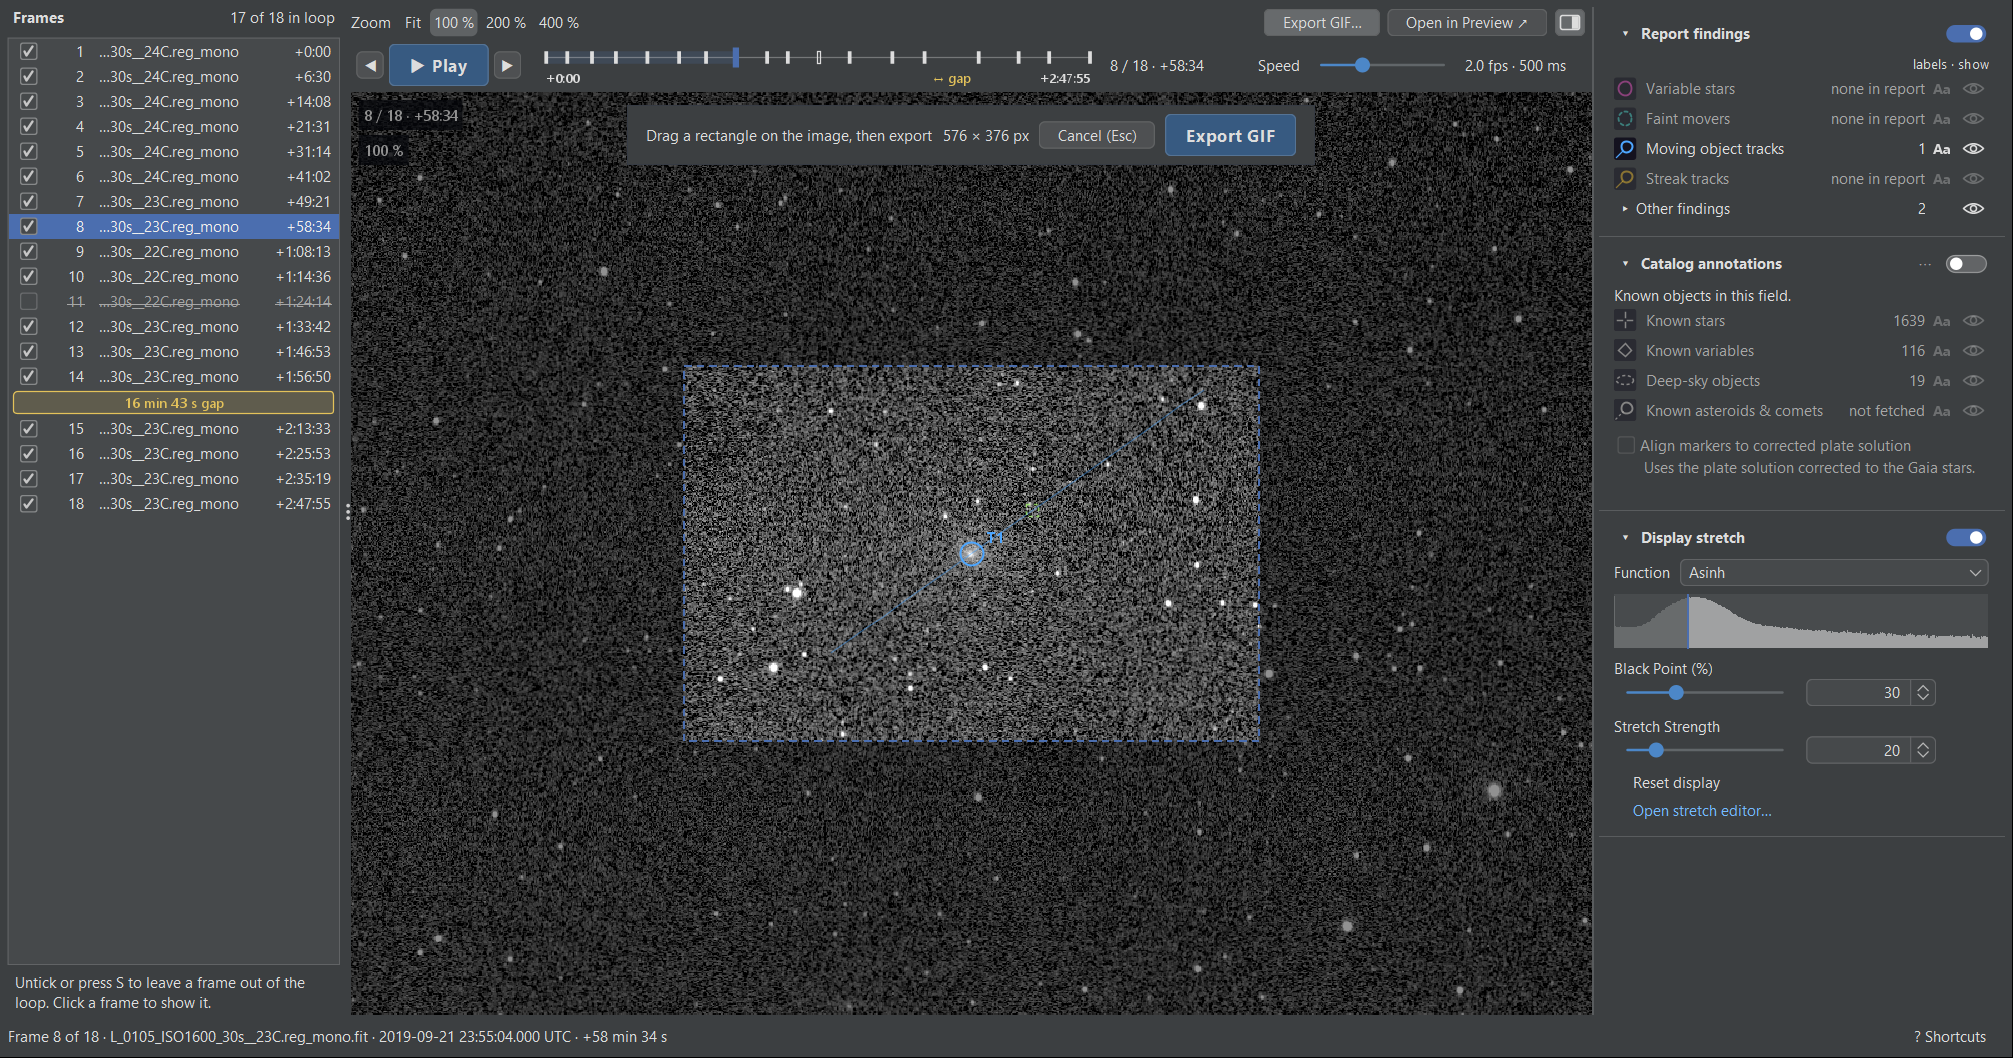
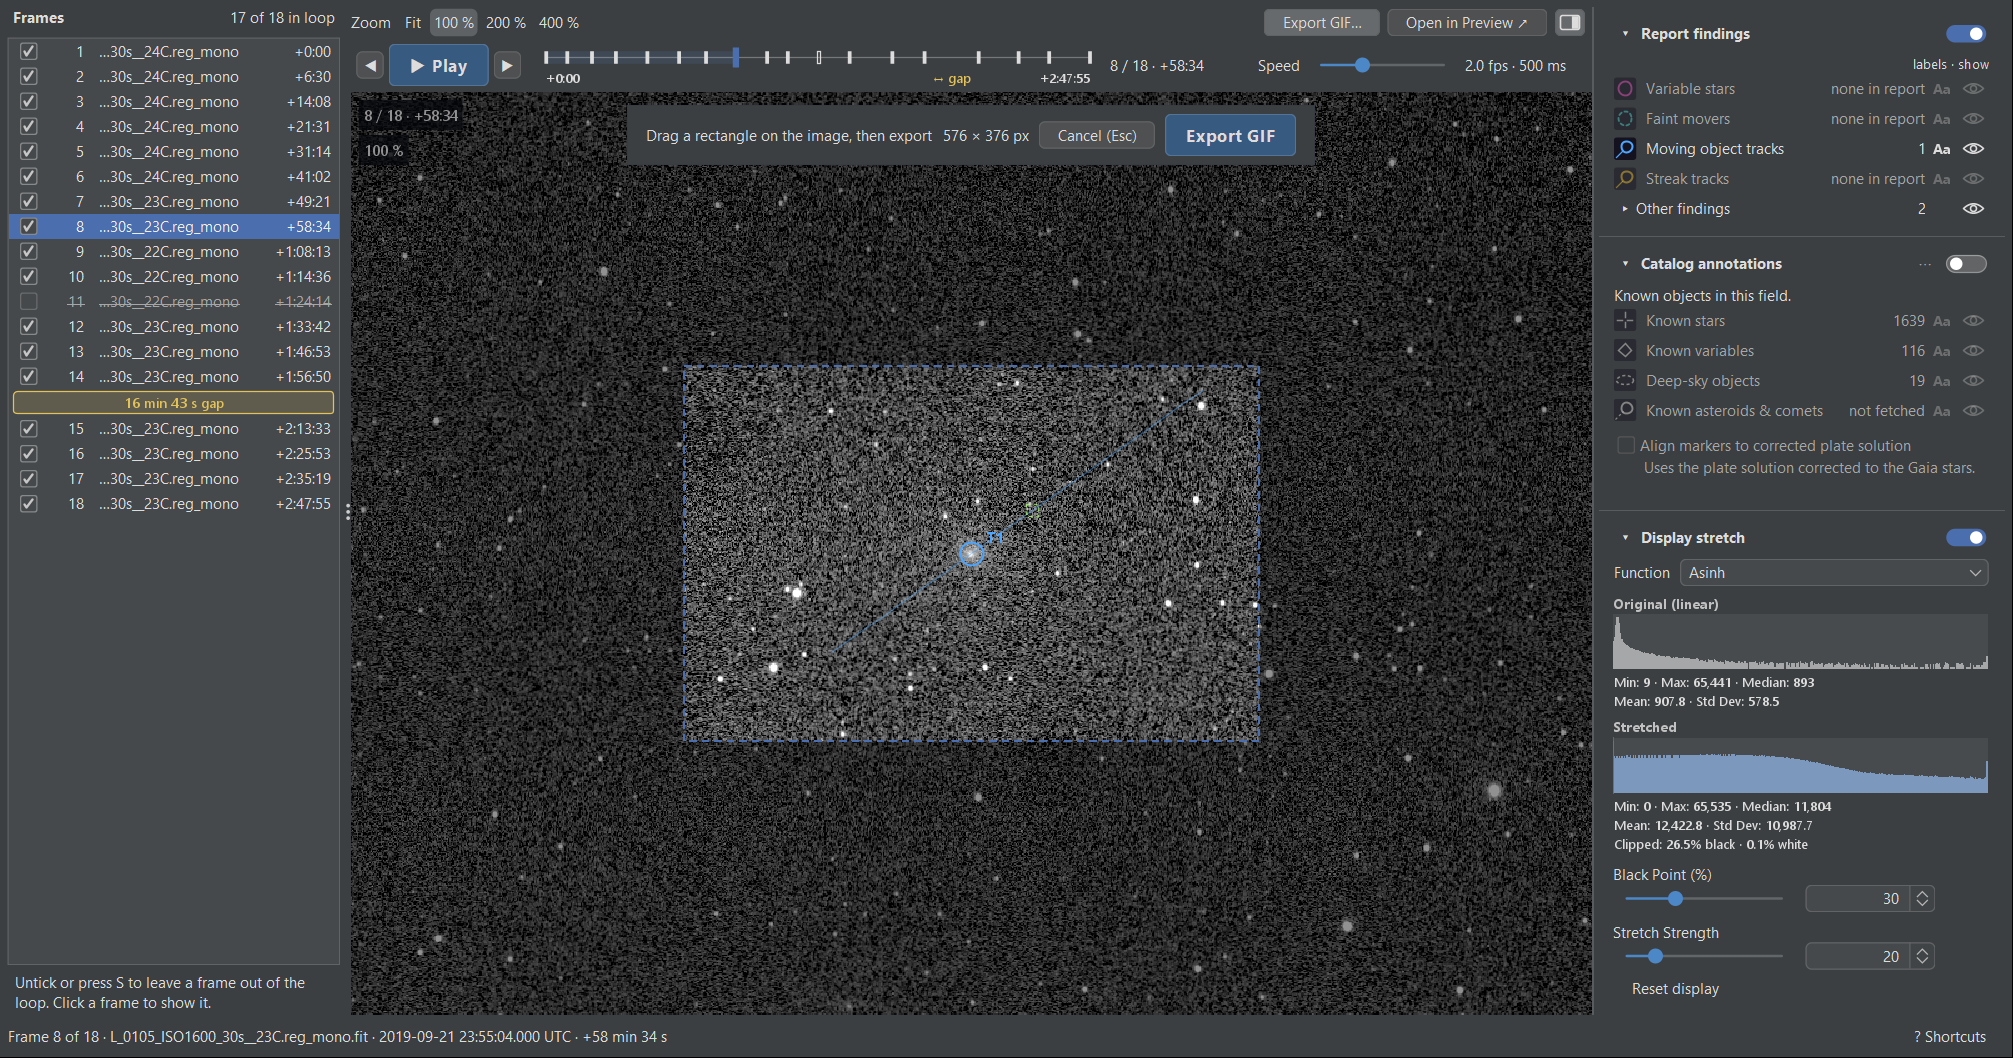
Update docs

Changed region(s): [[0.8008, 0.5614, 0.9856, 0.9357], [0.924, 0.8422, 0.9548, 0.8733]]

diff --git a/MANUAL.md b/MANUAL.md
@@ -648,7 +648,7 @@ Click **Blink All** to play every frame of the session as an animation, the clas
 
 - **Report findings** (R): the latest run's or restored report's findings, one row per layer with its count. The switch in the header shows or hides them all. **Variable stars** (V), **Faint movers**, **Moving object tracks** (T) and **Streak tracks** (Shift+T) have their own rows; **Other findings** unfolds into single streaks and anomalies (S, A), slow-mover candidates (DS), local rescue and activity (LR, LC), and camera-fixed and common-motion groups (FC, CM). The eye shows or hides a layer, and **Aa** its labels; while Other findings is hidden, its rows are disabled and keep their own choices. A row that has nothing to show says why, for example *none in report*.
 - **Catalog annotations** (A): the known objects of the field, once fetched. The switch in the header shows them, and while it is off the rest of the section is disabled; the rows choose **Known stars**, **Known variables**, **Deep-sky objects** and **Known asteroids & comets**, each with its count on the frame shown. The **⋯** menu holds **Faintest magnitude…**. **Align markers to corrected plate solution** (C) is here too.
-- **Display stretch**: the switch, the function and its two parameters, each with a slider and a number field, shared with the Image Stretch editor. **Reset display** returns the parameters to the function's defaults. A small histogram shows the pixel values of the frame shown: the values the stretch shows as black are drawn darker, and an accent line marks the black point, so you can see how much of the sky is clipped. **Open stretch editor…** opens the [full comparison workspace](#image-stretch) on the frame currently shown, leaving the viewer open.
+- **Display stretch**: the switch, the function and its two parameters, each with a slider and a number field, shared with the Image Stretch editor. **Reset display** returns the parameters to the function's defaults. Two 16-bit histograms show the valid pixel values of the frame (leaving out the dark registration border): **Original (linear)** and **Stretched**, each with its minimum, maximum, median, mean and standard deviation, and the stretched view also gives the share of pixels clipped to black and white. **Open stretch editor…** opens the [full comparison workspace](#image-stretch) on the frame currently shown, leaving the viewer open.
 
 The swatch beside each row looks like the marks it draws. Findings keep the colours of their report categories; everything already in a catalogue is drawn in off-white, so a white diamond inside a magenta ring reads as a detected variable that is already catalogued. The choices are shared by all viewers, so a layer hidden in Preview Frame is hidden in Blink too, and they are remembered.
 
@@ -770,11 +770,13 @@ When a field has few bright stars, SpacePixels fetches fainter Gaia stars for th
 
 Open **Image Stretch…** under **3 Inspect**, or **Open stretch editor…** in a viewer's **Display stretch** section. The editor is a separate resizable window that stays open alongside the viewers. A viewer opens it on the frame currently shown; Main opens it on the selected frame, or the first frame when none is selected. Opening it again brings the same editor forward. Previous/Next navigates the editor without changing the Main table selection or Auto-Tune's frame pool.
 
-The editor compares the original linear frame and the stretched image, with linked zoom/pan, histograms and clipping percentages. The function, parameter sliders and numeric fields change the display immediately in Blink, Preview Frame and Manual Transient Inspection. Changes in those viewers update the editor too. **Reset to Defaults** restores the selected function's parameters; closing the window or **Esc** keeps your stretch settings and releases the editor's preview images. Importing a different session closes the editor. Detection always uses the original linear data; report images retain their separate stretch under Detection Settings → Report Visualization.
+The editor compares the original linear frame and the stretched image, with linked zoom/pan, 16-bit histograms and pixel statistics (Min, Max, Median, Mean and Std Dev over the valid image area, leaving out the dark registration border), plus the black and white clipping percentages on the stretched side. The function, parameter sliders and numeric fields change the display immediately in Blink, Preview Frame and Manual Transient Inspection. Changes in those viewers update the editor too. **Reset to Defaults** restores the selected function's parameters; closing the window or **Esc** keeps your stretch settings and releases the editor's preview images. Importing a different session closes the editor. Detection always uses the original linear data; report images retain their separate stretch under Detection Settings → Report Visualization.
 
 **Stretch display** switches between the selected stretch and a linear view. Unticking it disables the function and parameters without resetting them; ticking it restores the same stretch. The shared settings are remembered between sessions. Minimum parameter values still apply the selected algorithm; the checkbox provides the linear view. With stretch off, both editor previews show the linear image.
 
 **Asinh** has two parameters. **Black Point** (0 to 95 %) is the share of the frame's pixels shown as black. About 50 % is the sky level; higher values darken the sky further, which helps to separate a nebula from its background, and near the top they also hide faint stars. **Stretch Strength** (1 to 100) sets how much the faint parts are lifted. Above 50 each step lifts them about 10 % more, so 100 is much stronger than 50: it suits frames with a very wide brightness range, whose sky stays dark at 50. Other frames may just look washed out there.
+
+**Enhance Low** brightens pixels below a chosen percentile **Threshold**, more strongly the fainter they are; **Iterations** repeats the pass. **Enhance High** multiplies brighter pixels above the percentile **Threshold** over the chosen **Iterations**. **Extreme** sets the sky from the 25th–65th percentile band and draws every pixel above sky plus **Threshold** (in sky-noise units) at one bright value: harsh, but useful for making very faint objects stand out while blinking.
 
 **Export stretched copies…** is a separate file operation at the bottom of the editor. Its dialog shows the function, captured parameter values, frame count and `_stretched` destination before **Export** starts. It stretches the entire imported dataset, regardless of the Main selection or **Stretch display**, while preserving the source files. Export is disabled while a processing job or an open Blink holds the main window. Closing the export dialog with **Cancel** writes nothing.
 

diff --git a/RELEASE_NOTES.md b/RELEASE_NOTES.md
@@ -91,7 +91,7 @@
 - **Preview Frame toolbar and Raw detections (F29, second part).** One toolbar row: frame stepper with a number field (Enter jumps), one Fit/100/200/400 % zoom group, **Blink ↗** and the panel button. The trial thresholds move into the side panel's **Raw detections** section with its switch (D) and the frame's counts; a changed field has an amber outline and its saved value underneath, and the header says **Not saved**. **Reset** becomes **Revert** (back to the saved values) and **Apply to Settings** becomes **Save to settings**, enabled only when something differs; Manual Transient Inspection and Test Star Mask use the same names. **Blink ↗** blinks the selected frames, or all frames when fewer than three are selected, from the frame shown; Blink's **Open in Preview ↗** pauses the blink and shows that frame in Preview. Both windows stay open, and **Blink ↗** comes back to an open blink without reading its frames again. Tracks from older reports, which saved only one reference position per track, now appear under **Tracks** as dashed **ref** squares instead of among the other findings; reports written now restore full tracks.
 - **Blink transport bar and Export GIF (F29, third part).** Play/Pause and stepping move to a bar above the image, with a timeline that places the frames by capture time (hollow ticks for frames left out, gap labels, click to jump), the frame's place (also tagged on the image) and the speed in frames per second, now from 0.5 to 30. Stepping passes over the frames left out of the loop. The frame list shows a band at each gap in the capture times (an interval over 1.5 times the median) and strikes through the frames left out; **Skip this frame** is gone (untick the frame or press S). **Select GIF region** becomes an **Export GIF…** mode that dims the image outside the selection, with **Cancel (Esc)** and **Export GIF** over the image. With the frame list, the image and the side panel side by side, the Blink window is at least 1000 × 520 (scaled with the interface); when it is narrow, the speed moves to a second line of the transport bar.
 - **Viewer status bar and shortcuts (F29, fourth part).** The viewers' status bar is one line: the frame on the left; the cursor's pixel position, RA and Dec on a plate-solved frame, and value on the right. The two-line key footer is replaced by **? Shortcuts** (also the **?** key), which lists each window's keys and mouse actions, and by the keys named in the controls' tooltips.
-- **Stretch histogram (F29).** The viewers' Display stretch section shows the frame's pixel values with the values shown as black drawn darker and the black point marked. It reads the stretch's own table, so it is right for every stretch function.
+- **Stretch histograms and statistics (F29).** Both the Image Stretch editor and the viewers' Display stretch section now show 16-bit **Original (linear)** and **Stretched** histograms with 16-bit summary statistics (Min, Max, Median, Mean and Std Dev) and the stretched black/white clipping percentages. Registration border padding is excluded so shifted frames do not skew the range or statistics, and stretched bins are distributed across their output intervals without 8-bit quantization gaps.
 - **Your own report style (F15, last part).** Each report folder has a `report-custom.css` that the report applies after its built-in styles; editing it and refreshing the browser restyles that report. The new expert setting **Report Style File** (Detection Settings → Report Visualization) gives each new report a copy of your CSS file, so reports stay self-contained and work offline. `config/report-custom-example.css` lists every colour role of both themes with its built-in value. The iterative summary pages read a `report-custom.css` too.
 - **Report themes and text size (F15, second part).** The report toolbar has **Theme** (Dark, the default, or Light) and **Text** (Small, Normal, Large, Extra large). The pages switch at once; pictures keep their size and dark background, and the charts, status colours and lookup results follow the theme. The browser remembers the choice where it can, also for the iterative summary pages, which are now dark by default like the reports. Each finding type has one colour in its cards, the legend, the maps and the labels: anomaly, slow-mover and local-activity cards now use the legend's colours. On the light page finding colours are darker shades of the same hue, with at least WCAG AA contrast.
 - **Report styles prepared for themes (F15, first part).** The report's styles now come from shared stylesheets with about 50 named colour roles and text sizes relative to one base size, replacing some 200 hard-coded shades. Reports look the same; their data, CSVs and pictures are unchanged.

diff --git a/DEVELOPER.md b/DEVELOPER.md
@@ -262,7 +262,7 @@ After a successful appearance save, the user can choose Restart now or Later. `A
 
 `WindowSizing` installs per-window minimum sizes from logical baselines and measured content, including wrapped controls and current font metrics. It bounds those limits and initial placement to the usable monitor. Viewer toolbars and long dialog forms retain scroll access if enlarged controls exceed the available display; `WidthTrackingPanel` reveals focused controls on Tab. Standard file choosers use the same protected dialog sizing. The Appearance editors use their native preferred widths.
 
-`StretchEditorWindow` hosts the one shared `StretchPanel` outside the main tabs, reusing the window from Main or viewer links. Its independent frame cursor leaves the Main selection unchanged. Closing it releases previews; the viewer registry disposes it on a session change or shutdown.
+`StretchEditorWindow` hosts the one shared `StretchPanel` outside the main tabs, reusing the window from Main or viewer links. Its independent frame cursor leaves the Main selection unchanged. `StretchHistogram` renders both the original linear and stretched 16-bit histograms and statistics (excluding registration fill) in `StretchPanel` and `StretchControls`. Closing the editor releases previews; the viewer registry disposes it on a session change or shutdown.
 
 Preview Frame (`DetectionSequenceFrame`) and Manual Transient Inspection (`TransientInspectionFrame`) extend `SequenceViewerFrame`. The stretch editor's Show in Preview uses Preview Frame, which shows a frame the detection cannot read, such as a colour frame, without raw detections. Each prepares one frame at a time in `prepare(...)` on a `SwingWorker`, and the newest request wins. Blink (`BlinkFrame`) is built from the same parts: `FrameView` draws, `StretchControls` shares the stretch models owned by `StretchPanel`, `ViewerSupport` provides the keys and status bar, and `SkyAnnotations` draws catalogue labels and the predicted asteroids and comets (placed per frame, at the middle of its exposure). Blink, Preview Frame and Manual Transient Inspection can show all the last run's findings from the session's overlays, among them moving object tracks (T) and streak tracks (Shift+T) from its `TrackOverlay`. Manual Transient Inspection keeps the master reference from its first pass and re-detects only the frame on show when its trial per-frame settings change.
 

diff --git a/HIGH_LEVEL_DESIGN.md b/HIGH_LEVEL_DESIGN.md
@@ -158,7 +158,7 @@ Main classes:
 - `ApplicationWindow`
 - `MainApplicationPanel`
 - `ConfigurationPanel`
-- `StretchPanel` (display stretch, remembered in Java preferences; whole-frame preview with two linked `FrameView`s and a histogram)
+- `StretchPanel` (display stretch, remembered in Java preferences; whole-frame preview with two linked `FrameView`s and 16-bit original/stretched `StretchHistogram` views with summary statistics)
 - `StretchPreviewRenderer` (renders the `StretchPanel` previews one request at a time and shows a result only while its request is the newest; a change of frame or stretch, closing the editor or another import makes a render under way stale)
 - `DetectionConfigurationPanel`
 - `StretchSamplePanel` (the stretch preview under Auto Stretch Black and White Sigma: crops around the last run's tracks, or picked from a frame before a run, with the share of each drawn black and white), and `SpinnerSlider` (the sliders of those two settings, kept in step with their fields)
@@ -204,7 +204,7 @@ Main tasks:
 - `AutoTuneTask`
 - `StarMaskStackTask`
 - `WriteWcsTask`
-- `GeneratePreviewsTask`, which renders the Image Stretch previews of one frame and returns them to `StretchPreviewRenderer`; the sequence viewers load frames through `SequenceViewerFrame` and `BlinkSequence`
+- `GeneratePreviewsTask`, which renders the Image Stretch previews and 16-bit valid-pixel histogram of one frame and returns them to `StretchPreviewRenderer`; the sequence viewers load frames through `SequenceViewerFrame` and `BlinkSequence`
 
 ### `eu.startales.spacepixels.tools`
 
